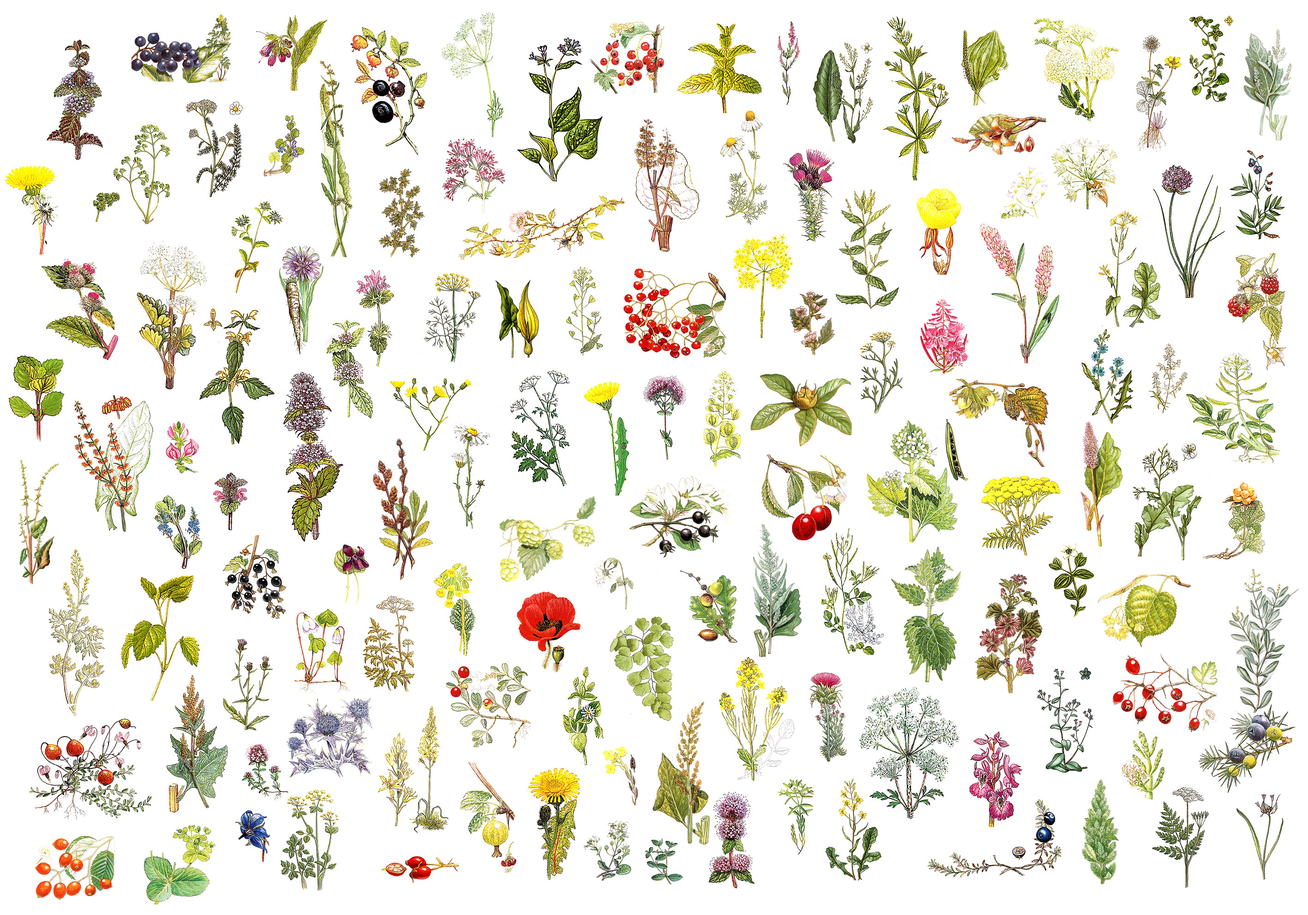
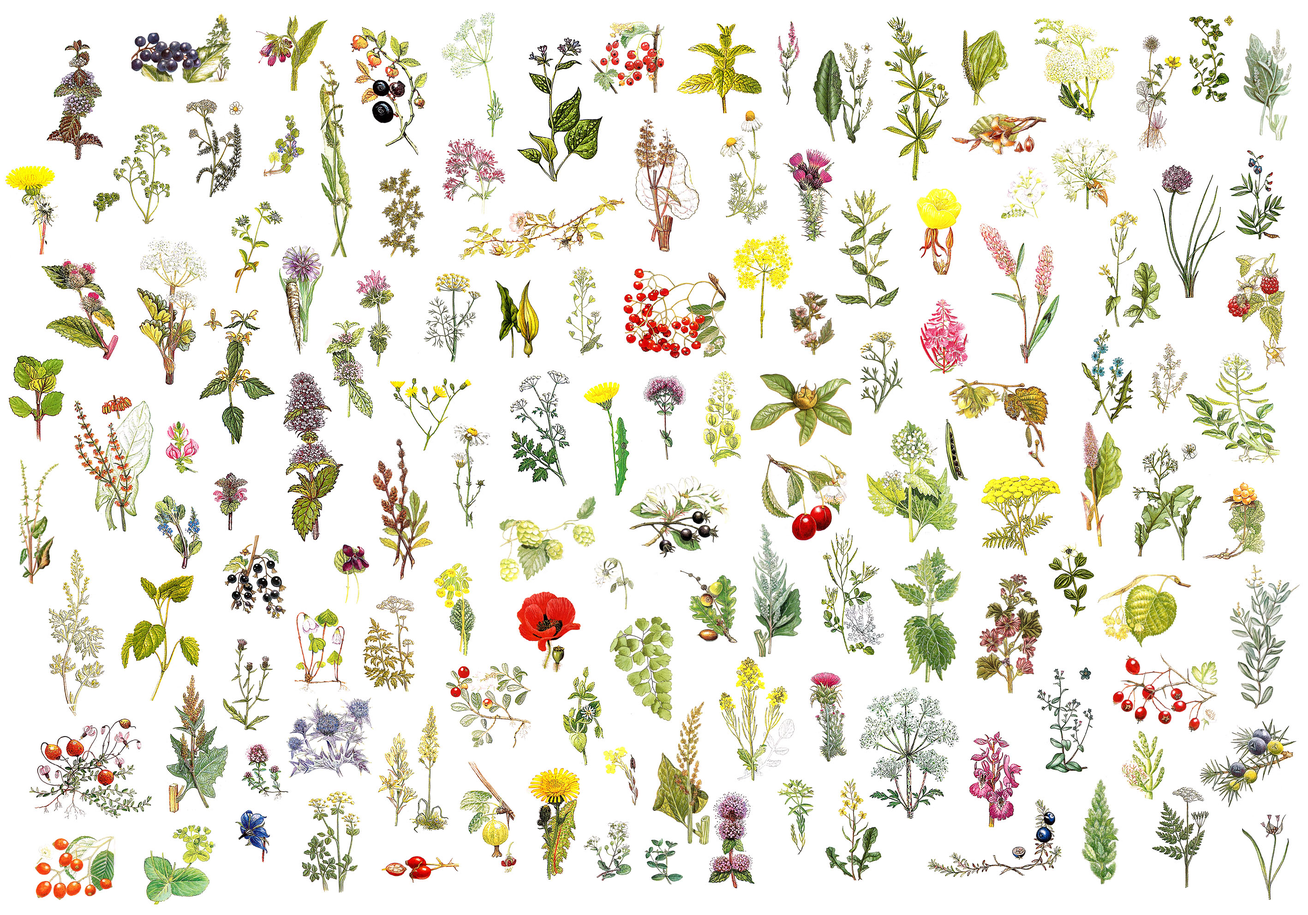
added wallpaper.jpg and updated plants image for game and
git add.

diff --git a/assets/style.css b/assets/style.css
@@ -13,7 +13,7 @@ body {
 }
 
 .background-container{
-    background: url("images/plants.jpg") no-repeat right center fixed; 
+    background: url("images/wallpaper.jpg") no-repeat right center fixed; 
     -webkit-background-size: cover;
     -moz-background-size: cover;
     -o-background-size: cover;
